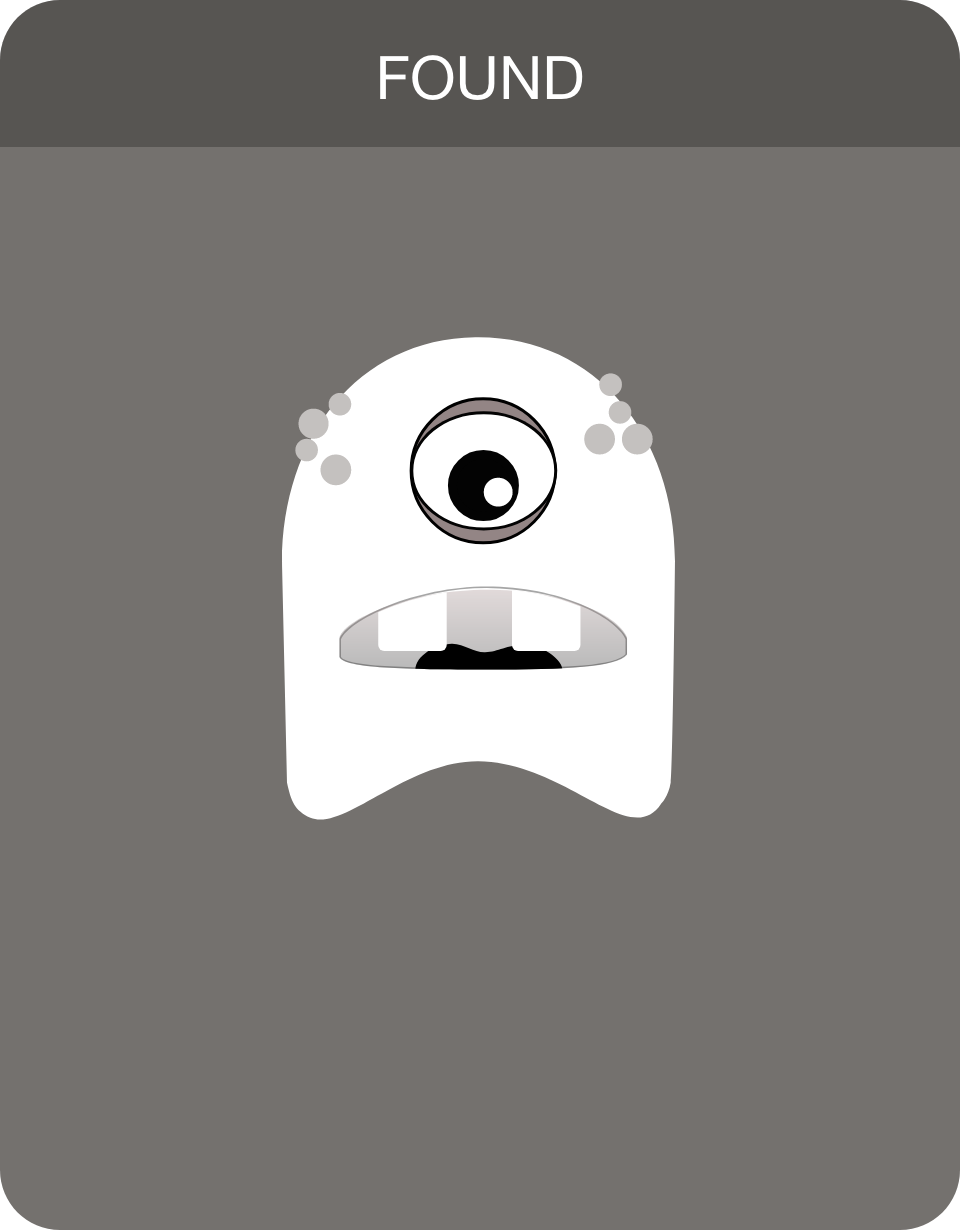
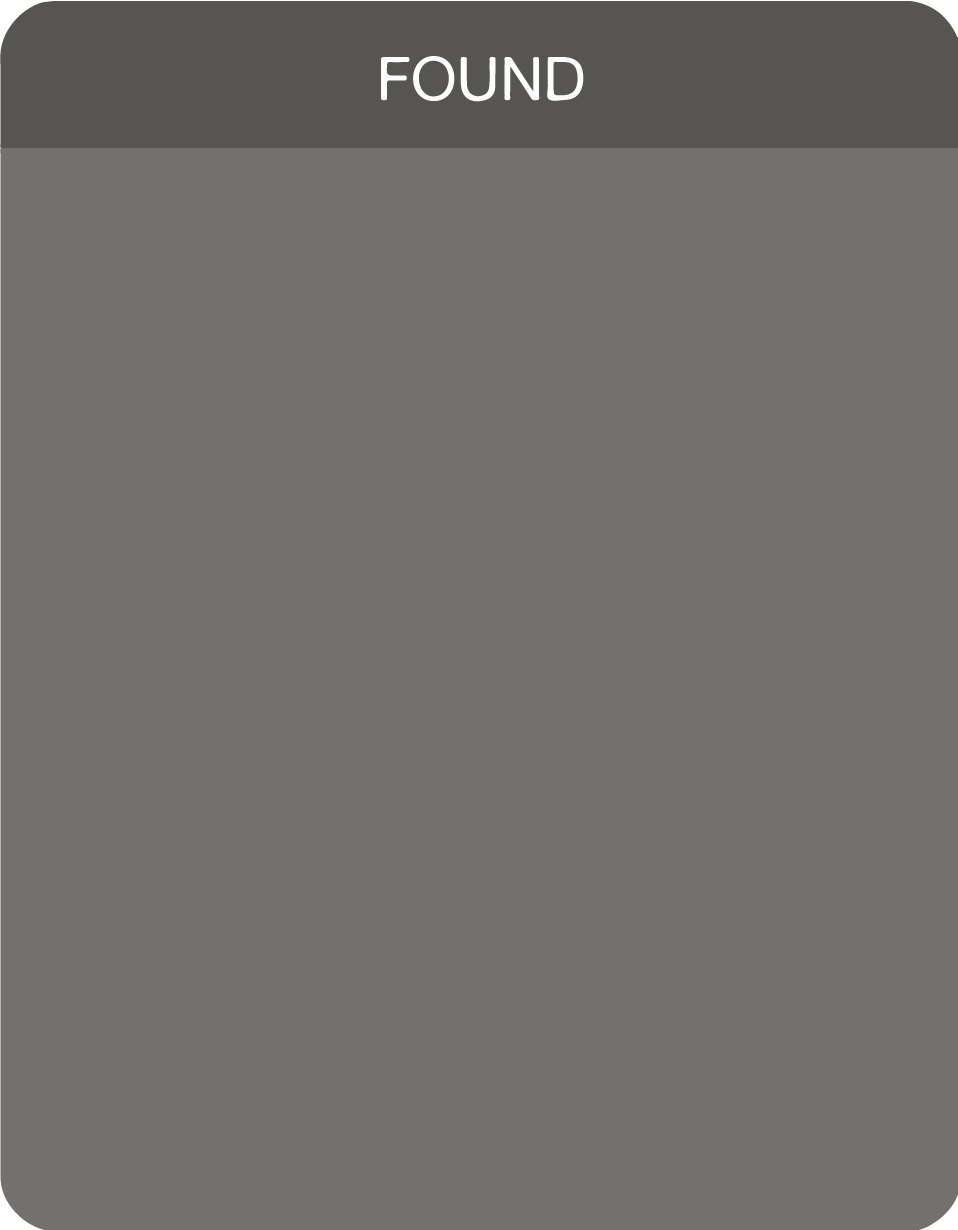
New Cane and Dextrin monster design on card
Monsters on card has been changed to the new design

diff --git a/Assets/Scripts/FindAddedSugar.cs b/Assets/Scripts/FindAddedSugar.cs
@@ -124,7 +124,7 @@ public class FindAddedSugar : MonoBehaviour
         fms.RemoveAt(0);
         repository.RemoveAt(0);
         familyNum = fms.Count;
-
+        
         //Initiative sugar disk
         for (int i = 1; i <= PlayerPrefs.GetInt("count"); i++)
         {
@@ -401,6 +401,8 @@ public class FindAddedSugar : MonoBehaviour
 
             monster.name = scannedAddedSugars[currentNumMonster];
             GameObject.Find("Canvas").transform.Find(scannedAddedSugars[currentNumMonster] + "/Sugar Name").GetComponent<Text>().text = scannedAddedSugars[currentNumMonster];
+            DisplayMonsterDesign(monster.name.ToLower());
+
             //Audio.Play();
             DisplayMonsters();
 
@@ -426,59 +428,6 @@ public class FindAddedSugar : MonoBehaviour
                 StartCoroutine("AnimatorSugarCardToDex", "Sugar");
             }
             else StartCoroutine("AnimatorSugarCardToDex", "NoAddedSugar");
-
-            //            currentNumMonster++;
-            //            if (currentNumMonster == scannedAddedSugars.Count)
-            //            {
-            //                if (GameObject.Find("SugarDisk").transform.Find("RedDot").gameObject.activeSelf)
-            //                {
-            //                    //Third stage of tutorial
-            //                    if (ts == 2 && !scannedAddedSugars.Contains("No Added Sugar"))
-            //                    {
-            //                        TutorialController.initMask();
-            //                        GameObject magicTree = GameObject.Find("Magic Tree"), tutorialMask = GameObject.Find("Tutorial Mask");
-            //                        magicTree.GetComponentInChildren<Text>().text = "Check out your collection of Sugar Monsters in the SugarDex!";
-            //                        GameObject.Find("Tutorial Mask").GetComponent<TutorialController>().tutorialStagePics = new List<string>() { "2-1" };
-            //                        tutorialMask.GetComponent<Image>().sprite = Resources.Load<Sprite>("Images/Tutorial Masks/" + GameObject.Find("Tutorial Mask").GetComponent<TutorialController>().tutorialStagePics[0]);
-
-            //                        tutorialMask.GetComponent<RectTransform>().anchorMin = new Vector2(0, 0);
-            //                        tutorialMask.GetComponent<RectTransform>().anchorMax = new Vector2(1, 0);
-            //                        tutorialMask.GetComponent<RectTransform>().pivot = new Vector2(0.5f, 0);
-            //                        tutorialMask.GetComponent<RectTransform>().offsetMin = new Vector2(0, 0);
-            //                        tutorialMask.GetComponent<RectTransform>().offsetMax = new Vector2(0, 0);
-            //                        tutorialMask.GetComponent<RectTransform>().sizeDelta = new Vector2(0, 1950);
-
-            //                        ts++;
-            //                        PlayerPrefs.SetInt("TutorialStage", ts);
-            //                    }
-            //                }
-            //                GameObject.Destroy(GameObject.Find(scannedAddedSugars[currentNumMonster - 1]));
-            //                scanFrame.SetActive(true);
-            //                GameObject.Find("SugarDisk").GetComponent<Button>().enabled = true;
-            //                GameObject.Find("Main Camera").GetComponent<SimpleDemo>().Invoke("ClickStart", 3f); //wait for 3 seconds for next scan
-            //            }
-            //            else
-            //            {
-
-            //                if (!sugarInWall.Contains(scannedAddedSugars[currentNumMonster].ToLower()))
-            //                {
-
-            //#if UNITY_ANDROID || UNITY_IOS
-            //                    Handheld.Vibrate();
-            //#endif
-            //                    monster.GetComponent<Image>().sprite = Resources.Load<Sprite>("Images/NewAddedSugar");
-            //                    GameObject.Find("SugarDisk").transform.Find("RedDot").gameObject.SetActive(true);
-            //                }
-            //                else monster.GetComponent<Image>().sprite = Resources.Load<Sprite>("Images/CollectedAddedSugar");
-
-            //                if (!sugarInWall.Contains(scannedAddedSugars[currentNumMonster].ToLower())) sugarInWall.Add(scannedAddedSugars[currentNumMonster].ToLower());
-
-
-
-            //                monster.name = scannedAddedSugars[currentNumMonster];
-            //                GameObject.Find("Canvas").transform.Find(scannedAddedSugars[currentNumMonster] + "/Sugar Name").GetComponent<Text>().text = scannedAddedSugars[currentNumMonster];
-            //                //Audio.Play();
-            //            }
         }
     }
 
@@ -529,10 +478,12 @@ public class FindAddedSugar : MonoBehaviour
         if (sugarName == "No Added Sugar")
         {
             monster.GetComponent<Image>().sprite = Resources.Load<Sprite>("Images/NoAddedSugar");
+            monster.transform.Find("SugarDesign").gameObject.SetActive(false);
         }
         else if (sugarName == "Not Found")
         {
             monster.GetComponent<Image>().sprite = Resources.Load<Sprite>("Images/Not Found Card");
+            monster.transform.Find("SugarDesign").gameObject.SetActive(false);
             scannedAddedSugars.Add("Not Found");
         }
         else
@@ -550,6 +501,8 @@ public class FindAddedSugar : MonoBehaviour
 
             GameObject.Find("Canvas").transform.Find(sugarName + "/Sugar Name").GetComponent<Text>().text = sugarName;
 
+            DisplayMonsterDesign(sugarName);
+            
             if (!sugarInWall.Contains(sugarName.ToLower())) sugarInWall.Add(sugarName.ToLower());
 
         }
@@ -579,5 +532,13 @@ public class FindAddedSugar : MonoBehaviour
         {
             DisplayMonsters();
         }
+    }
+
+    public void DisplayMonsterDesign(string sugarName)
+    {
+        var indexOfSugar = repository.IndexOf(sugarName.ToLower()) + 1;
+        var monsterFamily = dbList[indexOfSugar][familyIndex];
+        if(monsterFamily == "Dextrin Monsters" || monsterFamily == "Cane Monsters") monster.transform.Find("SugarDesign").GetComponent<Image>().sprite = Resources.Load<Sprite>("Images/Monsters/" + monsterFamily + "/" + sugarName);
+        else monster.transform.Find("SugarDesign").GetComponent<Image>().sprite = Resources.Load<Sprite>("Images/Monsters/" + monsterFamily);
     }
 }
